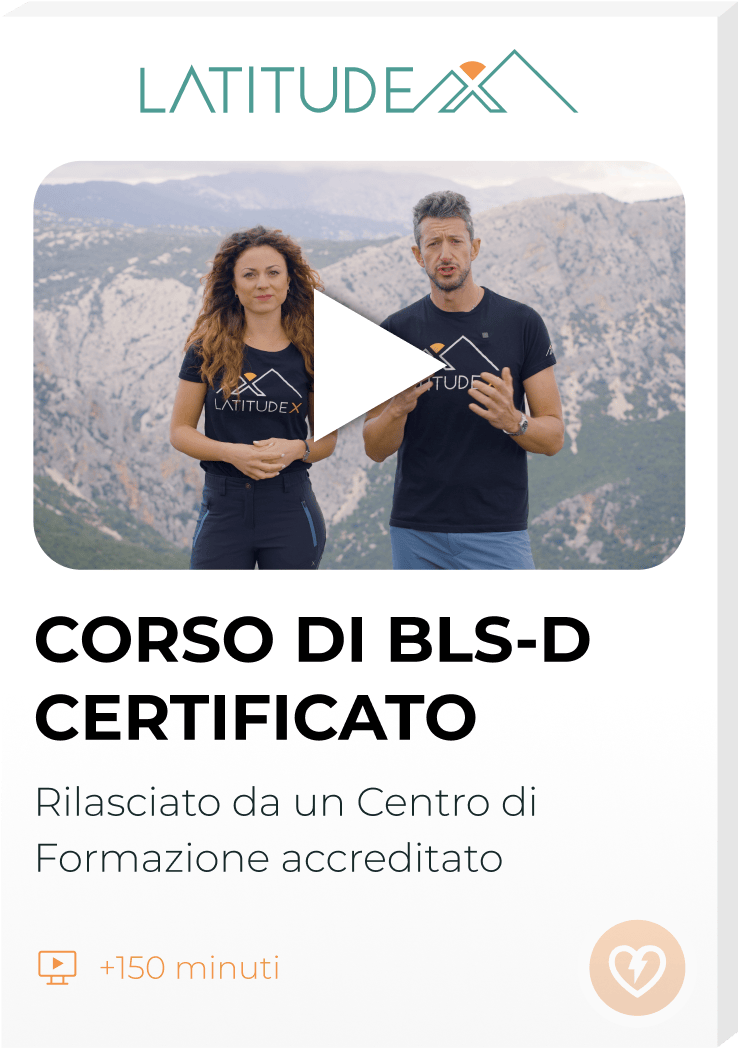
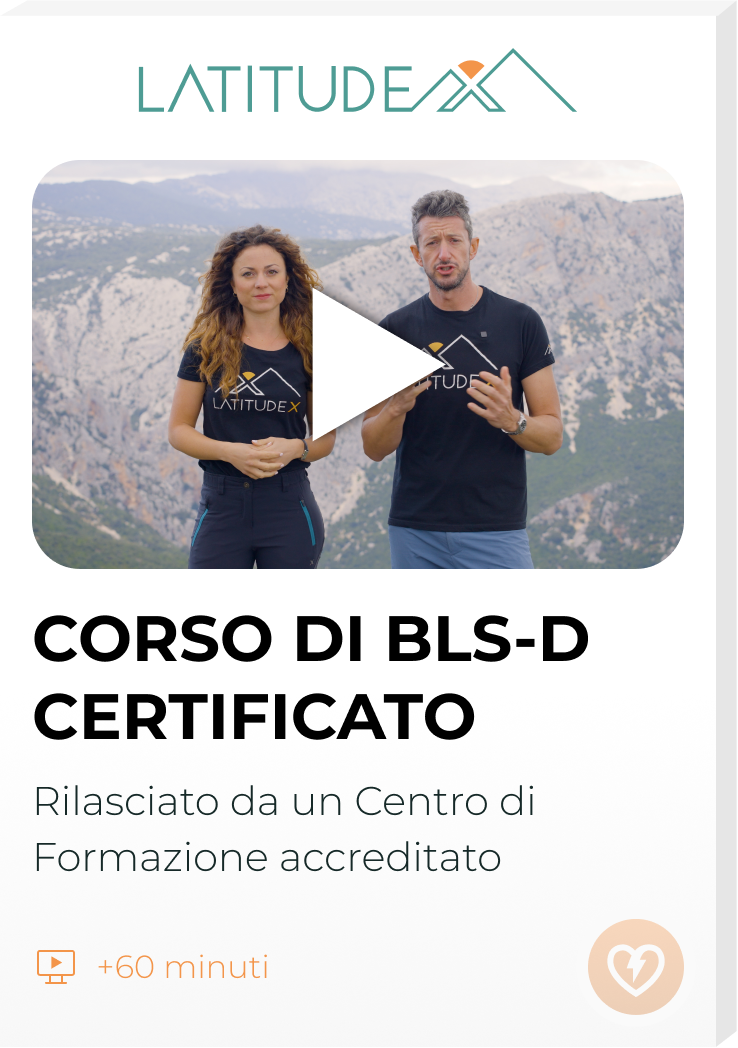
updates

diff --git a/app.config.ts b/app.config.ts
@@ -190,10 +190,10 @@ export default defineAppConfig({
     },
   ],
   sponsor: [
-    {
-      name: "Alpamayo",
-      src: "logo-grupo-alpamayo-tours.jpg"
-    },
+    // {
+    //   name: "Alpamayo",
+    //   src: "logo-grupo-alpamayo-tours.jpg"
+    // },
     {
       name: "Assoguide",
       src: "assoguidelogo.jpg"
@@ -218,24 +218,22 @@ export default defineAppConfig({
       name: "Staff P&P",
       src: "staffpep.jpg"
     },
-    {
-      name: "Alpamayo",
-      src: "alpamayo.png"
-    },
-
+    // {
+    //   name: "Alpamayo",
+    //   src: "alpamayo.png"
+    // },
     {
       name: "Atena",
       src: "atena.jpeg"
     },
-    {
-      name: "Consilia",
-      src: "consilia.png"
-    },
+    // {
+    //   name: "Consilia",
+    //   src: "consilia.png"
+    // },
     {
       name: "DNA Formazione",
       src: "dna-formazione.png"
     },
-
     {
       name: "Forema",
       src: "forema.png"
@@ -256,10 +254,17 @@ export default defineAppConfig({
       name: "Omnia",
       src: "omnia.jpeg"
     },
-
     {
       name: "Sinergika",
       src: "sinergika.png"
+    },
+    {
+      name: "Sappi",
+      src: "sappi.jpeg"
+    },
+    {
+      name: "Re engineering",
+      src: "re-engineering.jpeg"
     },
   ],
   faq: [

diff --git a/components/section/LandingHero.vue b/components/section/LandingHero.vue
@@ -33,7 +33,7 @@
         sizes="100vw sm:50vw md:591"
       />
       <p class="text-center text-lg md:-mt-20 md:mt-0 mt-4">
-        <strong>In uscita a gennaio 2024</strong>
+        <strong>In uscita a febbraio 2024</strong>
       </p>
       <ul class="list-none m-auto max-w-lg mt-3">
         <li class="inline-block p-1">
@@ -42,7 +42,7 @@
         </li>
         <li class="inline-block p-1">
           <BaseIcon :icon="'video'" class="text-secondary mr-1" />
-          <small>+150 minuti di video on-demand</small>
+          <small>+60 minuti di video on-demand</small>
         </li>
         <li class="inline-block p-1">
           <BaseIcon :icon="'mobile'" class="text-secondary mr-1" />
